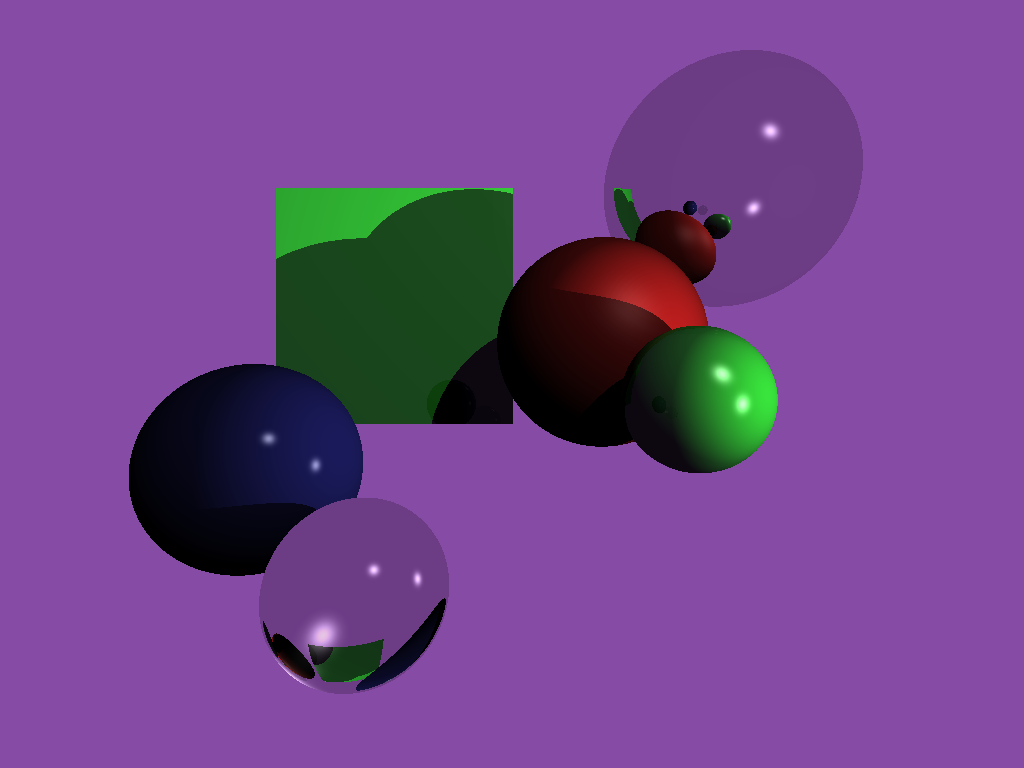
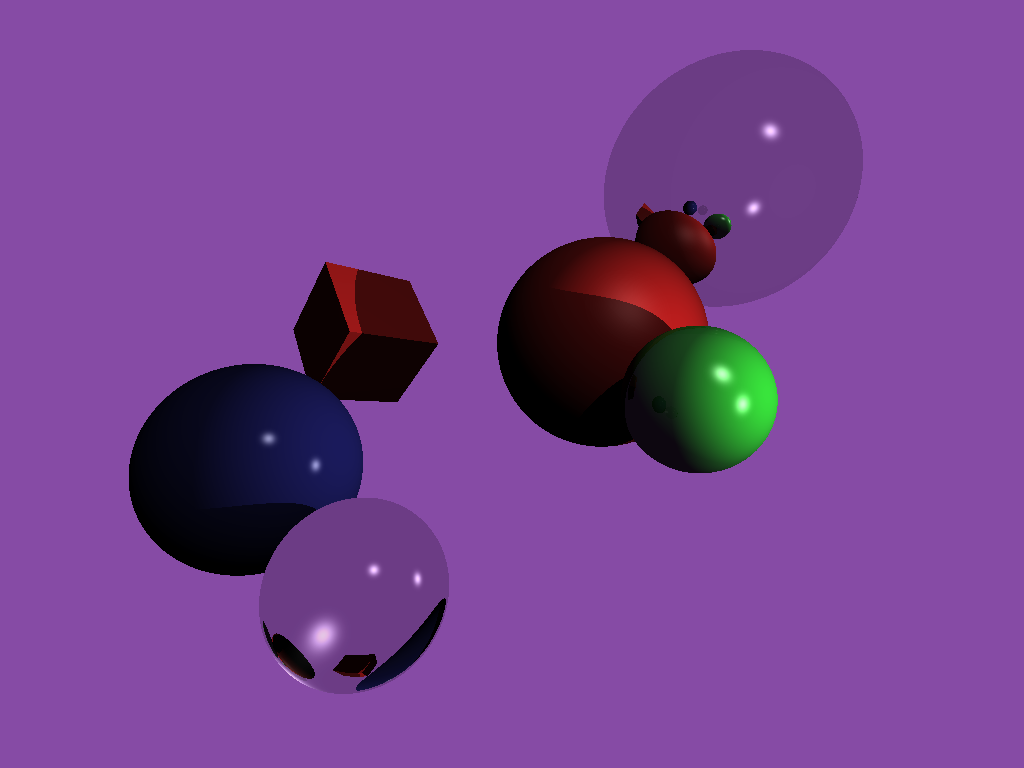
Add support for meshes and laoding them from .obj

Changed region(s): [[0.25, 0.2188, 0.5, 0.5625], [0.2812, 0.8125, 0.375, 0.9062], [0.5938, 0.25, 0.6562, 0.3125]]

diff --git a/src/scene/mesh.rs b/src/scene/mesh.rs
@@ -1,0 +1,69 @@
+use super::triangle::Triangle;
+use crate::vector_math::Vec3;
+
+#[derive(Debug, PartialEq)]
+pub struct Mesh {
+    triangles: Vec<Triangle>,
+}
+
+impl Mesh {
+    pub fn new(triangles: Vec<Triangle>) -> Mesh {
+        Mesh { triangles }
+    }
+
+    pub fn find_intersection(
+        &self,
+        ray_origin: &Vec3,
+        ray_direction: &Vec3,
+    ) -> Option<(f32, Vec3)> {
+        let mut closest_distance = f32::MAX;
+        let mut closest_traingle = None;
+        for triangle in &self.triangles {
+            if let Some((distance, _)) = triangle.find_intersection(ray_origin, ray_direction) {
+                if distance < closest_distance {
+                    closest_distance = distance;
+                    closest_traingle = Some(triangle);
+                }
+            }
+        }
+        closest_traingle.map(|triangle| (closest_distance, triangle.normal()))
+    }
+
+    pub fn from_obj_file(file_name: &str) -> Mesh {
+        let (models, _) = tobj::load_obj(file_name, &tobj::LoadOptions::default())
+            .expect(&format!("Can not load file {}", file_name));
+
+        let model = &models[0];
+
+        let mut triangles = vec![];
+
+        let number_of_triangles = model.mesh.indices.len() / 3;
+
+        let indices: Vec<_> = model.mesh.indices.iter().map(|idx| *idx as usize).collect();
+        let positions = &model.mesh.positions;
+
+        for face_idx in 0..number_of_triangles {
+            let offset = face_idx * 3;
+
+            triangles.push(Triangle::new(
+                Vec3::new(
+                    positions[indices[offset] * 3] as f32,
+                    positions[indices[offset] * 3 + 1] as f32,
+                    positions[indices[offset] * 3 + 2] as f32,
+                ),
+                Vec3::new(
+                    positions[indices[offset + 1] * 3] as f32,
+                    positions[indices[offset + 1] * 3 + 1] as f32,
+                    positions[indices[offset + 1] * 3 + 2] as f32,
+                ),
+                Vec3::new(
+                    positions[indices[offset + 2] * 3] as f32,
+                    positions[indices[offset + 2] * 3 + 1] as f32,
+                    positions[indices[offset + 2] * 3 + 2] as f32,
+                ),
+            ));
+        }
+
+        Mesh { triangles }
+    }
+}

diff --git a/src/scene.rs b/src/scene.rs
@@ -1,9 +1,11 @@
+mod mesh;
 pub mod sphere;
 mod triangle;
 
 use crate::buffer::Rgb;
 use crate::vector_math::Vec3;
 
+use mesh::Mesh;
 use sphere::Sphere;
 use triangle::Triangle;
 
@@ -46,20 +48,8 @@ pub fn create_scene() -> Scene {
                 material: &GLASS,
             },
             Object {
-                surface: Surface::Triangle(Triangle::new(
-                    Vec3::new(-6.0, 0.0, -13.0),
-                    Vec3::new(0.0, 6.0, -13.0),
-                    Vec3::new(-6.0, 6.0, -13.0),
-                )),
-                material: &GLOSSY_GREEN,
-            },
-            Object {
-                surface: Surface::Triangle(Triangle::new(
-                    Vec3::new(0.0, 6.0, -13.0),
-                    Vec3::new(-6.0, 0.0, -13.0),
-                    Vec3::new(0.0, 0.0, -13.0),
-                )),
-                material: &GLOSSY_GREEN,
+                surface: Surface::Mesh(Mesh::from_obj_file("cube.obj")),
+                material: &RUBBERY_RED,
             },
         ],
         lights: vec![
@@ -84,6 +74,7 @@ pub struct Scene {
 pub enum Surface {
     Sphere(Sphere),
     Triangle(Triangle),
+    Mesh(Mesh),
 }
 
 impl Surface {
@@ -95,6 +86,7 @@ impl Surface {
         match self {
             Self::Sphere(sphere) => sphere.find_intersection(ray_origin, ray_direction),
             Self::Triangle(triangle) => triangle.find_intersection(ray_origin, ray_direction),
+            Self::Mesh(mesh) => mesh.find_intersection(ray_origin, ray_direction),
         }
     }
 }

diff --git a/src/scene/triangle.rs b/src/scene/triangle.rs
@@ -14,6 +14,10 @@ impl Triangle {
         }
     }
 
+    pub fn normal(&self) -> Vec3 {
+        self.normal
+    }
+
     pub fn find_intersection(
         &self,
         ray_origin: &Vec3,
